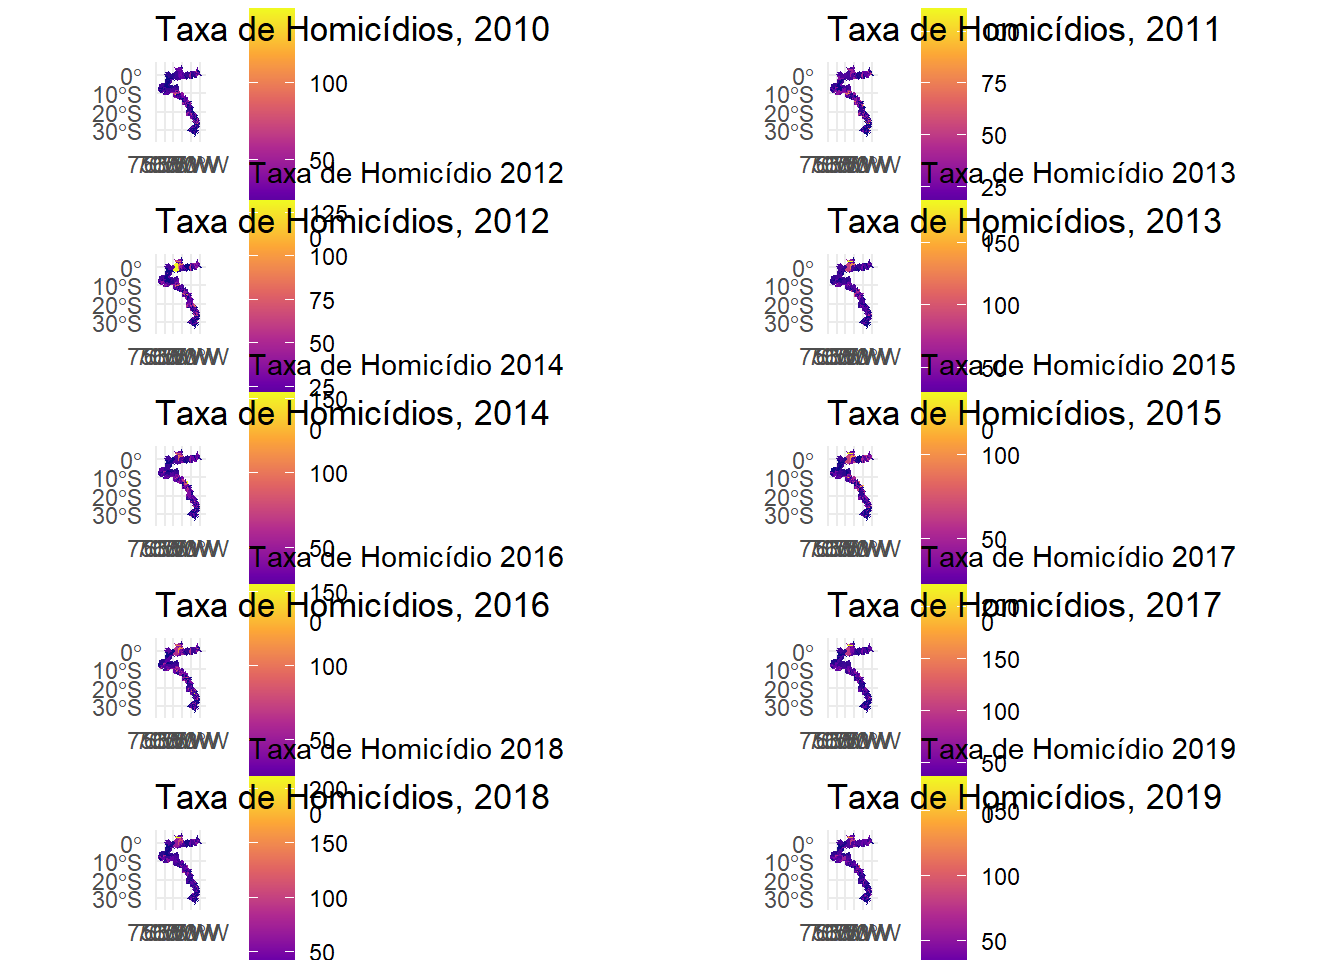
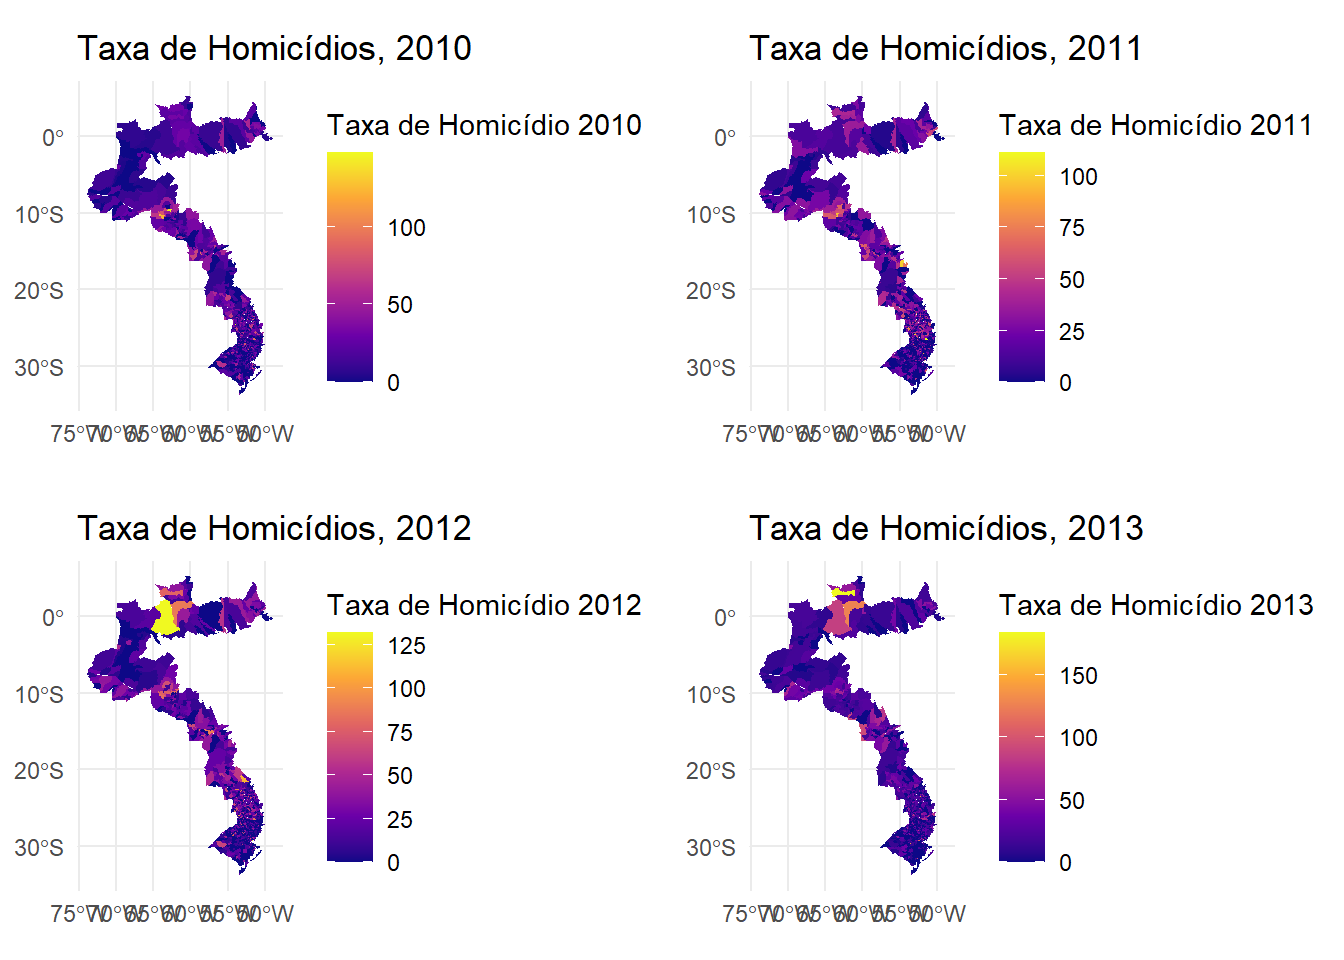
mapas

diff --git a/code/maps.html b/code/maps.html
@@ -152,7 +152,7 @@ Geodetic CRS:  SIRGAS 2000</code></pre>
 <div class="sourceCode cell-code" id="cb5"><pre class="sourceCode r code-with-copy"><code class="sourceCode r"><span id="cb5-1"><a href="#cb5-1" aria-hidden="true" tabindex="-1"></a>municipios <span class="ot">&lt;-</span> <span class="fu">read_municipality</span>(<span class="at">year=</span><span class="dv">2020</span>, <span class="at">showProgress =</span> T) <span class="sc">%&gt;%</span></span>
 <span id="cb5-2"><a href="#cb5-2" aria-hidden="true" tabindex="-1"></a>  <span class="fu">st_transform</span>(<span class="st">"WGS84"</span>)</span></code><button title="Copy to Clipboard" class="code-copy-button"><i class="bi"></i></button></pre></div>
 <div class="cell-output cell-output-stderr">
-<pre><code>Using year 2020</code></pre>
+<pre><code>Using year/date 2020</code></pre>
 </div>
 <div class="cell-output cell-output-stdout">
 <pre><code>
@@ -1394,8 +1394,8 @@ $ geom                             &lt;MULTIPOLYGON [°]&gt; MULTIPOLYGON (((-62
 </div>
 <div class="cell">
 <div class="sourceCode cell-code" id="cb62"><pre class="sourceCode r code-with-copy"><code class="sourceCode r"><span id="cb62-1"><a href="#cb62-1" aria-hidden="true" tabindex="-1"></a><span class="co"># Criar uma série de mapas para diferentes anos</span></span>
-<span id="cb62-2"><a href="#cb62-2" aria-hidden="true" tabindex="-1"></a>years <span class="ot">&lt;-</span> <span class="dv">2010</span><span class="sc">:</span><span class="dv">2019</span></span>
-<span id="cb62-3"><a href="#cb62-3" aria-hidden="true" tabindex="-1"></a>plots <span class="ot">&lt;-</span> <span class="fu">lapply</span>(years, <span class="cf">function</span>(year) {</span>
+<span id="cb62-2"><a href="#cb62-2" aria-hidden="true" tabindex="-1"></a>years1 <span class="ot">&lt;-</span> <span class="dv">2010</span><span class="sc">:</span><span class="dv">2013</span></span>
+<span id="cb62-3"><a href="#cb62-3" aria-hidden="true" tabindex="-1"></a>plots1 <span class="ot">&lt;-</span> <span class="fu">lapply</span>(years1, <span class="cf">function</span>(year) {</span>
 <span id="cb62-4"><a href="#cb62-4" aria-hidden="true" tabindex="-1"></a>  <span class="fu">ggplot</span>(df_rdd) <span class="sc">+</span></span>
 <span id="cb62-5"><a href="#cb62-5" aria-hidden="true" tabindex="-1"></a>    <span class="fu">geom_sf</span>(<span class="fu">aes_string</span>(<span class="at">fill =</span> <span class="fu">paste0</span>(<span class="st">"`valor-"</span>, year, <span class="st">"`"</span>)), <span class="at">color =</span> <span class="cn">NA</span>) <span class="sc">+</span></span>
 <span id="cb62-6"><a href="#cb62-6" aria-hidden="true" tabindex="-1"></a>    <span class="fu">scale_fill_viridis_c</span>(<span class="at">option =</span> <span class="st">"plasma"</span>, <span class="at">na.value =</span> <span class="st">"grey90"</span>, <span class="at">name =</span> <span class="fu">paste</span>(<span class="st">"Taxa de Homicídio"</span>, year)) <span class="sc">+</span></span>
@@ -1408,23 +1408,64 @@ $ geom                             &lt;MULTIPOLYGON [°]&gt; MULTIPOLYGON (((-62
 ℹ Please use tidy evaluation idioms with `aes()`.
 ℹ See also `vignette("ggplot2-in-packages")` for more information.</code></pre>
 </div>
-<div class="sourceCode cell-code" id="cb64"><pre class="sourceCode r code-with-copy"><code class="sourceCode r"><span id="cb64-1"><a href="#cb64-1" aria-hidden="true" tabindex="-1"></a><span class="co"># Mostrar todos os mapas em uma grade</span></span>
-<span id="cb64-2"><a href="#cb64-2" aria-hidden="true" tabindex="-1"></a><span class="fu">library</span>(gridExtra)</span></code><button title="Copy to Clipboard" class="code-copy-button"><i class="bi"></i></button></pre></div>
-<div class="cell-output cell-output-stderr">
-<pre><code>Warning: package 'gridExtra' was built under R version 4.3.2</code></pre>
-</div>
+<div class="sourceCode cell-code" id="cb64"><pre class="sourceCode r code-with-copy"><code class="sourceCode r"><span id="cb64-1"><a href="#cb64-1" aria-hidden="true" tabindex="-1"></a>years2 <span class="ot">&lt;-</span> <span class="dv">2014</span><span class="sc">:</span><span class="dv">2017</span></span>
+<span id="cb64-2"><a href="#cb64-2" aria-hidden="true" tabindex="-1"></a>plots2 <span class="ot">&lt;-</span> <span class="fu">lapply</span>(years2, <span class="cf">function</span>(year) {</span>
+<span id="cb64-3"><a href="#cb64-3" aria-hidden="true" tabindex="-1"></a>  <span class="fu">ggplot</span>(df_rdd) <span class="sc">+</span></span>
+<span id="cb64-4"><a href="#cb64-4" aria-hidden="true" tabindex="-1"></a>    <span class="fu">geom_sf</span>(<span class="fu">aes_string</span>(<span class="at">fill =</span> <span class="fu">paste0</span>(<span class="st">"`valor-"</span>, year, <span class="st">"`"</span>)), <span class="at">color =</span> <span class="cn">NA</span>) <span class="sc">+</span></span>
+<span id="cb64-5"><a href="#cb64-5" aria-hidden="true" tabindex="-1"></a>    <span class="fu">scale_fill_viridis_c</span>(<span class="at">option =</span> <span class="st">"plasma"</span>, <span class="at">na.value =</span> <span class="st">"grey90"</span>, <span class="at">name =</span> <span class="fu">paste</span>(<span class="st">"Taxa de Homicídio"</span>, year)) <span class="sc">+</span></span>
+<span id="cb64-6"><a href="#cb64-6" aria-hidden="true" tabindex="-1"></a>    <span class="fu">ggtitle</span>(<span class="fu">paste</span>(<span class="st">"Taxa de Homicídios,"</span>, year)) <span class="sc">+</span></span>
+<span id="cb64-7"><a href="#cb64-7" aria-hidden="true" tabindex="-1"></a>    <span class="fu">theme_minimal</span>() <span class="sc">+</span></span>
+<span id="cb64-8"><a href="#cb64-8" aria-hidden="true" tabindex="-1"></a>    <span class="fu">theme</span>(<span class="at">legend.position =</span> <span class="st">"right"</span>)</span>
+<span id="cb64-9"><a href="#cb64-9" aria-hidden="true" tabindex="-1"></a>})</span>
+<span id="cb64-10"><a href="#cb64-10" aria-hidden="true" tabindex="-1"></a></span>
+<span id="cb64-11"><a href="#cb64-11" aria-hidden="true" tabindex="-1"></a>years3 <span class="ot">&lt;-</span> <span class="dv">2018</span><span class="sc">:</span><span class="dv">2019</span></span>
+<span id="cb64-12"><a href="#cb64-12" aria-hidden="true" tabindex="-1"></a>plots3 <span class="ot">&lt;-</span> <span class="fu">lapply</span>(years3, <span class="cf">function</span>(year) {</span>
+<span id="cb64-13"><a href="#cb64-13" aria-hidden="true" tabindex="-1"></a>  <span class="fu">ggplot</span>(df_rdd) <span class="sc">+</span></span>
+<span id="cb64-14"><a href="#cb64-14" aria-hidden="true" tabindex="-1"></a>    <span class="fu">geom_sf</span>(<span class="fu">aes_string</span>(<span class="at">fill =</span> <span class="fu">paste0</span>(<span class="st">"`valor-"</span>, year, <span class="st">"`"</span>)), <span class="at">color =</span> <span class="cn">NA</span>) <span class="sc">+</span></span>
+<span id="cb64-15"><a href="#cb64-15" aria-hidden="true" tabindex="-1"></a>    <span class="fu">scale_fill_viridis_c</span>(<span class="at">option =</span> <span class="st">"plasma"</span>, <span class="at">na.value =</span> <span class="st">"grey90"</span>, <span class="at">name =</span> <span class="fu">paste</span>(<span class="st">"Taxa de Homicídio"</span>, year)) <span class="sc">+</span></span>
+<span id="cb64-16"><a href="#cb64-16" aria-hidden="true" tabindex="-1"></a>    <span class="fu">ggtitle</span>(<span class="fu">paste</span>(<span class="st">"Taxa de Homicídios,"</span>, year)) <span class="sc">+</span></span>
+<span id="cb64-17"><a href="#cb64-17" aria-hidden="true" tabindex="-1"></a>    <span class="fu">theme_minimal</span>() <span class="sc">+</span></span>
+<span id="cb64-18"><a href="#cb64-18" aria-hidden="true" tabindex="-1"></a>    <span class="fu">theme</span>(<span class="at">legend.position =</span> <span class="st">"right"</span>)</span>
+<span id="cb64-19"><a href="#cb64-19" aria-hidden="true" tabindex="-1"></a>})</span>
+<span id="cb64-20"><a href="#cb64-20" aria-hidden="true" tabindex="-1"></a></span>
+<span id="cb64-21"><a href="#cb64-21" aria-hidden="true" tabindex="-1"></a><span class="co"># Mostrar todos os mapas em uma grade</span></span>
+<span id="cb64-22"><a href="#cb64-22" aria-hidden="true" tabindex="-1"></a><span class="fu">library</span>(gridExtra)</span></code><button title="Copy to Clipboard" class="code-copy-button"><i class="bi"></i></button></pre></div>
 <div class="cell-output cell-output-stderr">
 <pre><code>
-Attaching package: 'gridExtra'</code></pre>
+Anexando pacote: 'gridExtra'</code></pre>
 </div>
 <div class="cell-output cell-output-stderr">
-<pre><code>The following object is masked from 'package:dplyr':
+<pre><code>O seguinte objeto é mascarado por 'package:dplyr':
 
     combine</code></pre>
 </div>
-<div class="sourceCode cell-code" id="cb68"><pre class="sourceCode r code-with-copy"><code class="sourceCode r"><span id="cb68-1"><a href="#cb68-1" aria-hidden="true" tabindex="-1"></a><span class="fu">do.call</span>(grid.arrange, <span class="fu">c</span>(plots, <span class="at">ncol =</span> <span class="dv">2</span>))</span></code><button title="Copy to Clipboard" class="code-copy-button"><i class="bi"></i></button></pre></div>
+<div class="sourceCode cell-code" id="cb67"><pre class="sourceCode r code-with-copy"><code class="sourceCode r"><span id="cb67-1"><a href="#cb67-1" aria-hidden="true" tabindex="-1"></a><span class="fu">do.call</span>(grid.arrange, <span class="fu">c</span>(plots1, <span class="at">ncol =</span> <span class="dv">2</span>))</span></code><button title="Copy to Clipboard" class="code-copy-button"><i class="bi"></i></button></pre></div>
 <div class="cell-output-display">
 <p><img src="maps_files/figure-html/unnamed-chunk-24-1.png" class="img-fluid" width="672"></p>
+</div>
+<div class="sourceCode cell-code" id="cb68"><pre class="sourceCode r code-with-copy"><code class="sourceCode r"><span id="cb68-1"><a href="#cb68-1" aria-hidden="true" tabindex="-1"></a><span class="fu">do.call</span>(grid.arrange, <span class="fu">c</span>(plots2, <span class="at">ncol =</span> <span class="dv">2</span>))</span></code><button title="Copy to Clipboard" class="code-copy-button"><i class="bi"></i></button></pre></div>
+<div class="cell-output-display">
+<p><img src="maps_files/figure-html/unnamed-chunk-24-2.png" class="img-fluid" width="672"></p>
+</div>
+<div class="sourceCode cell-code" id="cb69"><pre class="sourceCode r code-with-copy"><code class="sourceCode r"><span id="cb69-1"><a href="#cb69-1" aria-hidden="true" tabindex="-1"></a><span class="fu">do.call</span>(grid.arrange, <span class="fu">c</span>(plots3, <span class="at">ncol =</span> <span class="dv">2</span>))</span></code><button title="Copy to Clipboard" class="code-copy-button"><i class="bi"></i></button></pre></div>
+<div class="cell-output-display">
+<p><img src="maps_files/figure-html/unnamed-chunk-24-3.png" class="img-fluid" width="672"></p>
+</div>
+</div>
+<div class="cell">
+<div class="sourceCode cell-code" id="cb70"><pre class="sourceCode r code-with-copy"><code class="sourceCode r"><span id="cb70-1"><a href="#cb70-1" aria-hidden="true" tabindex="-1"></a><span class="fu">library</span>(ggpattern)</span>
+<span id="cb70-2"><a href="#cb70-2" aria-hidden="true" tabindex="-1"></a></span>
+<span id="cb70-3"><a href="#cb70-3" aria-hidden="true" tabindex="-1"></a><span class="co"># Criar o mapa com diferenciação visual entre tratamento e controle</span></span>
+<span id="cb70-4"><a href="#cb70-4" aria-hidden="true" tabindex="-1"></a><span class="fu">ggplot</span>(df_rdd) <span class="sc">+</span></span>
+<span id="cb70-5"><a href="#cb70-5" aria-hidden="true" tabindex="-1"></a>  <span class="fu">geom_sf_pattern</span>(<span class="fu">aes</span>(<span class="at">fill =</span> <span class="st">`</span><span class="at">valor-2019</span><span class="st">`</span>, <span class="at">pattern =</span> groups), </span>
+<span id="cb70-6"><a href="#cb70-6" aria-hidden="true" tabindex="-1"></a>                  <span class="at">size =</span> <span class="fl">0.2</span>, <span class="at">pattern_density =</span> <span class="fl">0.1</span>) <span class="sc">+</span></span>
+<span id="cb70-7"><a href="#cb70-7" aria-hidden="true" tabindex="-1"></a>  <span class="fu">scale_fill_viridis_c</span>(<span class="at">option =</span> <span class="st">"plasma"</span>, <span class="at">na.value =</span> <span class="st">"grey90"</span>, <span class="at">name =</span> <span class="st">"Taxa de Homicídio"</span>) <span class="sc">+</span></span>
+<span id="cb70-8"><a href="#cb70-8" aria-hidden="true" tabindex="-1"></a>  <span class="fu">scale_pattern_manual</span>(<span class="at">values =</span> <span class="fu">c</span>(<span class="st">"control"</span> <span class="ot">=</span> <span class="st">"stripe"</span>, <span class="st">"treatment"</span> <span class="ot">=</span> <span class="st">"circle"</span>)) <span class="sc">+</span></span>
+<span id="cb70-9"><a href="#cb70-9" aria-hidden="true" tabindex="-1"></a>  <span class="fu">ggtitle</span>(<span class="st">"Taxa de Homicídios por Município em 2019 com Diferenciação de Grupos"</span>) <span class="sc">+</span></span>
+<span id="cb70-10"><a href="#cb70-10" aria-hidden="true" tabindex="-1"></a>  <span class="fu">theme_minimal</span>() <span class="sc">+</span></span>
+<span id="cb70-11"><a href="#cb70-11" aria-hidden="true" tabindex="-1"></a>  <span class="fu">theme</span>(<span class="at">legend.position =</span> <span class="st">"right"</span>)</span></code><button title="Copy to Clipboard" class="code-copy-button"><i class="bi"></i></button></pre></div>
+<div class="cell-output-display">
+<p><img src="maps_files/figure-html/unnamed-chunk-25-1.png" class="img-fluid" width="672"></p>
 </div>
 </div>
 </section>
